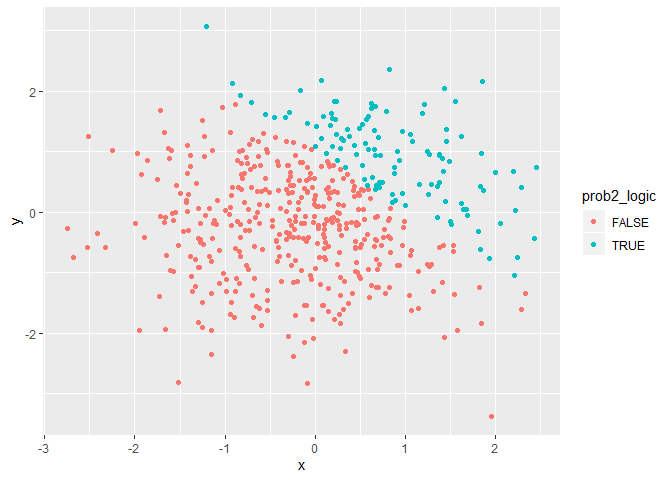
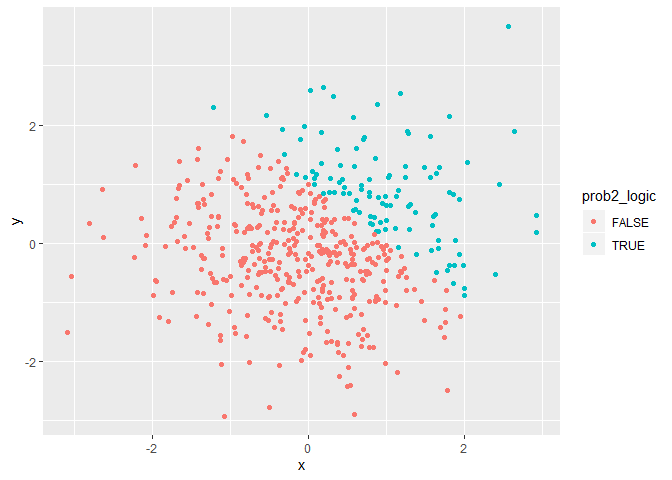
I just changed my Create_df_mean. Previousely I had saved my means, but it was extra step and also had made my code ugly

diff --git a/p8105_hw1_ha2546.md b/p8105_hw1_ha2546.md
@@ -19,42 +19,32 @@ prob1_df = tibble(
   vec_factor = factor(c("good", "fair", "poor", "poor", "fair", "fair", "fair", "fair"))
 )
 
-sample_mean = mean(pull(prob1_df, vec_sample))
-sample_mean
+mean(pull(prob1_df, vec_sample))
 ```
 
-    ## [1] -0.5781355
+    ## [1] -0.4159251
 
 ``` r
-logic_mean = mean(pull(prob1_df, vec_logic))
-logic_mean
+mean(pull(prob1_df, vec_logic))
 ```
 
     ## [1] 0.25
 
 ``` r
-char_mean = mean(pull(prob1_df, vec_char))
+mean(pull(prob1_df, vec_char))
 ```
 
     ## Warning in mean.default(pull(prob1_df, vec_char)): argument is not numeric
     ## or logical: returning NA
 
-``` r
-char_mean
-```
-
     ## [1] NA
 
 ``` r
-factor_mean = mean(pull(prob1_df, vec_factor))
+mean(pull(prob1_df, vec_factor))
 ```
 
     ## Warning in mean.default(pull(prob1_df, vec_factor)): argument is not
     ## numeric or logical: returning NA
-
-``` r
-factor_mean
-```
 
     ## [1] NA
 
@@ -72,17 +62,8 @@ factor variables’ types I had to numeric:
 ``` r
 as.numeric(pull(prob1_df, vec_logic))
 as.numeric(pull(prob1_df, vec_char))
-```
-
-    ## Warning: NAs introduced by coercion
-
-``` r
 as.numeric(pull(prob1_df, vec_factor))
 ```
-
-    ## [1] 0 1 0 0 0 1 0 0
-    ## [1] NA NA NA NA NA NA NA NA
-    ## [1] 2 1 3 3 1 1 1 1
 
   - **Results**
 
@@ -111,7 +92,7 @@ num_logic_calc = pull(prob1_df, vec_sample) * num_logic
 num_logic_calc
 ```
 
-    ## [1] 0.0000000 0.1213427 0.0000000 0.0000000 0.0000000 0.3720995 0.0000000
+    ## [1] 0.0000000 0.5542856 0.0000000 0.0000000 0.0000000 0.0000000 1.3110044
     ## [8] 0.0000000
 
 ``` r
@@ -126,7 +107,7 @@ factor_logic_calc1 = pull(prob1_df, vec_sample) * factor_logic
 factor_logic
 ```
 
-    ## [1] FALSE TRUE  FALSE FALSE FALSE TRUE  FALSE FALSE
+    ## [1] FALSE TRUE  FALSE FALSE FALSE FALSE TRUE  FALSE
     ## Levels: FALSE TRUE
 
 ``` r
@@ -141,14 +122,14 @@ factor_logic_calc2 = pull(prob1_df, vec_sample) * num_factor_logic
 num_factor_logic
 ```
 
-    ## [1] 1 2 1 1 1 2 1 1
+    ## [1] 1 2 1 1 1 1 2 1
 
 ``` r
 factor_logic_calc2
 ```
 
-    ## [1] -0.5832236  0.2426853 -0.8855308 -0.8951417 -0.4725438  0.7441989
-    ## [7] -0.5318271 -1.7502592
+    ## [1] -0.7796672  1.1085712 -0.8760216 -0.4039876 -0.9040423 -2.1142915
+    ## [7]  2.6220089 -0.1146805
 
   - **Results**
 
@@ -178,9 +159,9 @@ prob2_df = tibble(
 ```
 
 The size of my dataset is 500, 5; which means it has 500 rows and
-5columns. The mean of x is -0.0238248, its median is 0.0022949, and its
-standard deviation is 0.9780257. The proportion of cases for which x + y
-\> 1 is 0.046
+5columns. The mean of x is 0.0553961, its median is 0.1227795, and its
+standard deviation is 0.9956365. The proportion of cases for which x + y
+\> 1 is 0.0428
 
 ## 2.2
 
@@ -210,9 +191,9 @@ factor_logic_scatterplot
 ![](p8105_hw1_ha2546_files/figure-gfm/scatter_plots-3.png)<!-- -->
 
 ``` r
-ggsave("logic_scatterplot2.pdf")
+ggsave("logic_scatterplot.pdf")
 ```
 
     ## Saving 7 x 5 in image
 
-  - Results(comment on colors in these three plots) ……..
+  - Results(comment on colors in these three plots)
